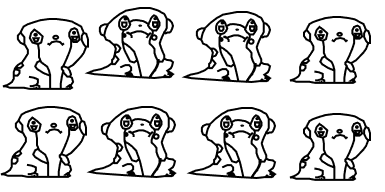
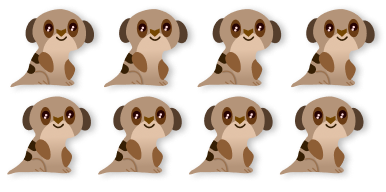
zuri part finish

diff --git a/sketch.js b/sketch.js
@@ -22,14 +22,14 @@ var level1 = [
   [2, 0, 0, 0, 0, 0, 0, 0, 0, 0, 0, 0, 0, 0, 0, 0, 2, 2, 2, 0, 0, 0, 0, 0, 0, 0, 0, 0, 0, 0, 0, 0, 0, 0, 2],
   [2, 0, 0, 0, 0, 0, 0, 0, 0, 0, 0, 0, 0, 0, 0, 0, 2, 2, 2, 0, 0, 0, 0, 0, 0, 0, 0, 0, 0, 0, 0, 1, 0, 5, 2],
   [2, 0, 0, 0, 0, 0, 0, 0, 0, 0, 0, 0, 0, 0, 0, 0, 0, 2, 2, 0, 0, 0, 0, 0, 0, 0, 0, 0, 0, 0, 1, 2, 0, 1, 2],
-  [2, 0, 0, 0, 0, 0, 0, 0, 0, 0, 0, 0, 0, 0, 0, 1, 0, 2, 2, 0, 0, 0, 0, 0, 0, 0, 0, 0, 0, 0, 0, 2, 0, 0, 2],
-  [2, 0, 0, 0, 0, 0, 0, 0, 0, 0, 0, 0, 0, 0, 1, 0, 0, 0, 0, 1, 0, 0, 0, 0, 0, 0, 0, 0, 1, 0, 0, 2, 0, 0, 2],
-  [2, 0, 0, 0, 0, 0, 0, 0, 0, 0, 0, 0, 0, 1, 0, 0, 0, 0, 0, 0, 1, 0, 0, 0, 9, 0, 0, 0, 0, 0, 0, 2, 1, 0, 2],
-  [2, 4, 0, 3, 0, 0, 0, 0, 0, 0, 0, 4, 1, 5, 0, 0, 0, 0, 0, 0, 0, 0, 1, 1, 1, 1, 0, 0, 0, 0, 0, 2, 0, 0, 2],
-  [2, 1, 1, 1, 1, 1, 0, 0, 0, 0, 0, 1, 0, 1, 0, 0, 0, 0, 0, 0, 1, 0, 0, 0, 0, 0, 0, 0, 1, 0, 0, 2, 0, 0, 2],
-  [2, 2, 2, 2, 2, 2, 0, 0, 0, 0, 1, 0, 0, 0, 1, 8, 0, 0, 8, 1, 0, 0, 0, 0, 0, 0, 0, 0, 0, 0, 0, 2, 0, 0, 2],
-  [2, 2, 2, 2, 2, 2, 1, 10, 10, 1, 0, 0, 0, 0, 0, 1, 8, 8, 1, 6, 0, 3, 4, 1, 10, 10, 1, 8, 8, 8, 8, 2, 0, 7, 2],
-  [2, 2, 2, 2, 2, 2, 2, 2, 2, 2, 1, 1, 1, 1, 1, 1, 1, 1, 1, 1, 1, 1, 1, 1, 1, 1, 1, 1, 1, 1, 1, 1, 1, 1, 2],
+  [2, 0, 0, 0, 0, 0, 0, 0, 0, 0, 0, 0, 0, 0, 0, 0, 0, 2, 2, 0, 0, 0, 0, 0, 0, 0, 0, 0, 0, 0, 0, 2, 0, 0, 2],
+  [2, 0, 0, 0, 0, 0, 0, 0, 0, 0, 0, 0, 0, 0, 0, 0, 0, 0, 0, 0, 0, 0, 0, 0, 0, 0, 0, 0, 1, 0, 0, 0, 0, 0, 2],
+  [2, 0, 0, 0, 0, 0, 0, 0, 0, 0, 0, 0, 0, 0, 0, 0, 0, 0, 0, 0, 0, 0, 0, 0, 9, 0, 0, 0, 0, 0, 0, 0, 1, 0, 2],
+  [2, 4, 0, 3, 0, 0, 0, 0, 0, 0, 0, 4, 1, 5, 0, 0, 0, 0, 0, 0, 0, 0, 1, 1, 1, 1, 0, 0, 0, 0, 0, 0, 0, 0, 2],
+  [2, 1, 1, 1, 1, 1, 0, 0, 0, 0, 0, 1, 2, 1, 0, 0, 0, 0, 0, 0, 0, 0, 0, 0, 0, 0, 0, 0, 1, 0, 0, 0, 0, 0, 2],
+  [2, 2, 2, 2, 2, 2, 0, 0, 0, 0, 1, 2, 2, 2, 1, 1, 0, 0, 0, 1, 0, 0, 0, 0, 0, 0, 0, 0, 0, 0, 9, 0, 0, 0, 2],
+  [2, 2, 2, 2, 2, 2, 1, 1, 10, 1, 2, 2, 2, 2, 2, 2, 8, 8, 1, 6, 0, 3, 4, 1, 1, 10, 1, 8, 1, 1, 1, 1, 0, 7, 2],
+  [2, 2, 2, 2, 2, 2, 2, 2, 2, 2, 2, 2, 2, 2, 2, 1, 1, 1, 1, 1, 1, 1, 1, 2, 2, 1, 1, 1, 1, 1, 1, 1, 1, 1, 2],
 
 ]
 
@@ -92,8 +92,8 @@ var level4 = [
 var levels = [level1, level2, level3, level4];
 
 function preload() {
-  player_image = loadImage("images/buho.png")
-  player_injured_image = loadImage("images/buho.png")
+  player_image = loadImage("images/suricato.png")
+  player_injured_image = loadImage("images/suricato.png")
   tiles_image = loadImage("images/tiles.png")
   jump_image = loadImage("images/jump.png")
   touchpad_image = loadImage("images/touchpad.png")
@@ -141,7 +141,20 @@ function draw() {
 function mouseClicked(){
   //console.log(mouseX,mouseY);
   //118sketch.js:123 414 and 896
-  player.updateMove(w,h)
+  //player.updateMove(w,h)
+   //280 a 360 y 653 a 740
+  /* if(h >= 280 && h < 360 && w >= 653 && w < 740 && //Dependiendo del tamaño del celular
+   mouseX >= w / 10 && mouseX < w / 10 + 74 && mouseY >= h - (h / 3) && mouseY < h - (h / 3) + 74 ){ //mouseclicked
+   console.log("touched left");
+ }
+ if(h >= 280 && h < 360 && w >= 653 && w < 740 && //Dependiendo del tamaño del celular
+   mouseX >= (w / 10) + (74*2) && mouseX < (w / 10) + (74*3) && mouseY >= h - (h / 3) && mouseY < h - (h / 3) + 74 ){ //mouseclicked
+   console.log("touched right");
+ }
+ if(h >= 280 && h < 360 && w >= 653 && w < 740 && //Dependiendo del tamaño del celular
+ mouseX >= (w - (w / 5)) && mouseX < (w - (w / 5)) + 142 && mouseY >= (h - (h / 2.5)) && mouseY < (h - (h / 2.5)) + 142 ){ //mouseclicked
+ console.log("touched jump");
+ }
   //360 a 600 y 740 a 1024
   if(h >= 360 && h < 600 && w >= 740 && w < 1024 && //Dependiendo del tamaño del celular
     mouseX >= w / 10 && mouseX < w / 10 + 74 && mouseY >= h - (h / 3) && mouseY < h - (h / 3) + 74 ){ //mouseclicked
@@ -155,6 +168,18 @@ function mouseClicked(){
   mouseX >= (w - (w / 5)) && mouseX < (w - (w / 5)) + 142 && mouseY >= (h - (h / 2)) && mouseY < (h - (h / 2)) + 142 ){ //mouseclicked
   console.log("touched jump");
   }
-  
+  //600 a 800 y 1024 a 1280
+  if(h >= 600 && h < 800 && w >= 1024 && w < 1280 && //Dependiendo del tamaño del celular
+    mouseX >= w / 10 && mouseX < w / 10 + 74 && mouseY >= h - (h / 4) && mouseY < h - (h / 4) + 74 ){ //mouseclicked
+    console.log("touched left");
+  }
+  if(h >= 600 && h < 800 && w >= 1024 && w < 1280 && //Dependiendo del tamaño del celular
+    mouseX >= (w / 10) + (74*2) && mouseX < (w / 10) + (74*3) && mouseY >= h - (h / 4) && mouseY < h - (h / 4) + 74 ){ //mouseclicked
+    console.log("touched right");
+  }
+  if(h >= 600 && h < 800 && w >= 1024 && w < 1280 && //Dependiendo del tamaño del celular
+  mouseX >= (w - (w / 5)) && mouseX < (w - (w / 5)) + 142 && mouseY >= (h - (h / 3)) && mouseY < (h - (h / 3)) + 142 ){ //mouseclicked
+  console.log("touched jump");
+  }*/
   //console.log((w / 10),h - (h / 3));
 }

diff --git a/player.js b/player.js
@@ -16,9 +16,9 @@ class Player {
 
   }
 
-  /*updateMove(w, h) {
+  updateMove(w, h) {
     this.processInput(w, h);
-  }*/
+  }
 
   update(w, h) {
     // check if player is still alive?
@@ -90,7 +90,11 @@ class Player {
       // switch to the next level!!!!!
       if (this.keys > 0) {
         if (map1.currentLevel < map1.levelList.length - 1) {
-          this.lives = 0;
+          window.open("https://www.google.com");
+
+          window.close();
+
+         /*this.lives = 0;
           this.endingMessage = "Level Complete";
           setTimeout(() => {
             this.lives = 2;
@@ -101,7 +105,7 @@ class Player {
         } else {
           this.lives = 0;
           this.endingMessage = "You Win! Game Over!";
-          // this.playSound(winSound);
+          // this.playSound(winSound);*/
         }
 
       }
@@ -252,6 +256,8 @@ class Player {
       else
         this.movingState = 2;
     }*/
+
+
     if (h >= 360 && h < 600 && w >= 740 && w < 1024 && //Dependiendo del tamaño del celular
       mouseX >= w / 10 && mouseX < w / 10 + 74 && mouseY >= h - (h / 3) && mouseY < h - (h / 3) + 74) { //mouseclicked
       console.log("touched left");
@@ -319,6 +325,87 @@ class Player {
     //     l(this.movingState);
     // this.lives++;
     //   }
+    if (h >= 280 && h < 360 && w >= 653 && w < 740 && //Dependiendo del tamaño del celular
+      mouseX >= w / 10 && mouseX < w / 10 + 74 && mouseY >= h - (h / 3) && mouseY < h - (h / 3) + 74) { //mouseclicked
+      console.log("touched left");
+      if (this.getBlockType(-1, 0) != "Solid") {
+        if (this.pos.x < width / 4)
+          map1.offset -= 5;
+        else {
+          this.pos.x -= 5;
+        }
+      }
+      // also update the movingState
+      if (this.animationTimer % 6 == 0)
+        this.movingState = 3;
+      else
+        this.movingState = 2;
+    }
+    if (h >= 280 && h < 360 && w >= 653 && w < 740 && //Dependiendo del tamaño del celular
+      mouseX >= (w / 10) + (74 * 2) && mouseX < (w / 10) + (74 * 3) && mouseY >= h - (h / 3) && mouseY < h - (h / 3) + 74) { //mouseclicked
+      console.log("touched right");
+      if (this.getBlockType(50, 0) != "Solid") {
+        if (this.pos.x < width / 2.3)
+          this.pos.x += 5;
+        else {
+          map1.offset += 5;
+        }
+      }
+      // also update the movingState
+      if (this.animationTimer % 6 == 0)
+        this.movingState = 3;
+      else
+        this.movingState = 2;
+    }
+    if (h >= 280 && h < 360 && w >= 653 && w < 740 && //Dependiendo del tamaño del celular
+      mouseX >= (w - (w / 5)) && mouseX < (w - (w / 5)) + 142 && mouseY >= (h - (h / 2.5)) && mouseY < (h - (h / 2.5)) + 142) { //mouseclicked
+      console.log("touched jump");
+      if (!this.isFalling()) {
+        this.velocity.y = -33;
+
+      }
+    }
+    //600 a 800 y 1024 a 1280
+    if (h >= 600 && h < 800 && w >= 1024 && w < 1280 && //Dependiendo del tamaño del celular
+      mouseX >= w / 10 && mouseX < w / 10 + 74 && mouseY >= h - (h / 4) && mouseY < h - (h / 4) + 74) { //mouseclicked
+      console.log("touched left");
+      if (this.getBlockType(-1, 0) != "Solid") {
+        if (this.pos.x < width / 4)
+          map1.offset -= 5;
+        else {
+          this.pos.x -= 5;
+        }
+      }
+      // also update the movingState
+      if (this.animationTimer % 6 == 0)
+        this.movingState = 3;
+      else
+        this.movingState = 2;
+    }
+    if (h >= 600 && h < 800 && w >= 1024 && w < 1280 && //Dependiendo del tamaño del celular
+      mouseX >= (w / 10) + (74 * 2) && mouseX < (w / 10) + (74 * 3) && mouseY >= h - (h / 4) && mouseY < h - (h / 4) + 74) { //mouseclicked
+      console.log("touched right");
+      if (this.getBlockType(50, 0) != "Solid") {
+        if (this.pos.x < width / 2.3)
+          this.pos.x += 5;
+        else {
+          map1.offset += 5;
+        }
+      }
+      // also update the movingState
+      if (this.animationTimer % 6 == 0)
+        this.movingState = 3;
+      else
+        this.movingState = 2;
+    }
+    if (h >= 600 && h < 800 && w >= 1024 && w < 1280 && //Dependiendo del tamaño del celular
+      mouseX >= (w - (w / 5)) && mouseX < (w - (w / 5)) + 142 && mouseY >= (h - (h / 3)) && mouseY < (h - (h / 3)) + 142) { //mouseclicked
+      console.log("touched jump");
+      if (!this.isFalling()) {
+        this.velocity.y = -33;
+
+      }
+    }
   }
 
 

diff --git a/map.js b/map.js
@@ -7,7 +7,7 @@ class Map {
     this.itemList = [];
     this.blocks = [];
     this.offset = 0;
-    this.yOffset = (this.levelList[this.currentLevel].length * 50) - height;
+    this.yOffset = (this.levelList[this.currentLevel].length * 50) - window.innerHeight;
     this.gameState = "playing";
     // load in all blocks from map data
     this.loadLevel();
@@ -18,7 +18,7 @@ class Map {
     this.enemyList = [];
     this.itemList = [];
     this.offset = 0;
-    this.yOffset = (this.levelList[this.currentLevel].length * 50) - height;
+    this.yOffset = (this.levelList[this.currentLevel].length * 50) - window.innerHeight;
     this.loadLevel();
     player.pos = createVector(100, map1.yOffset);
   }
